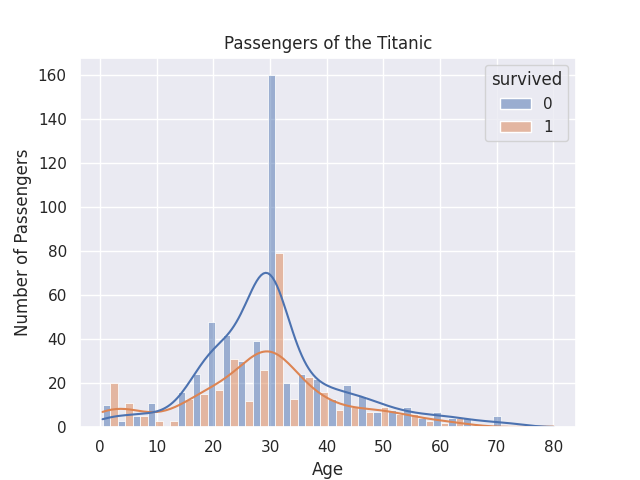
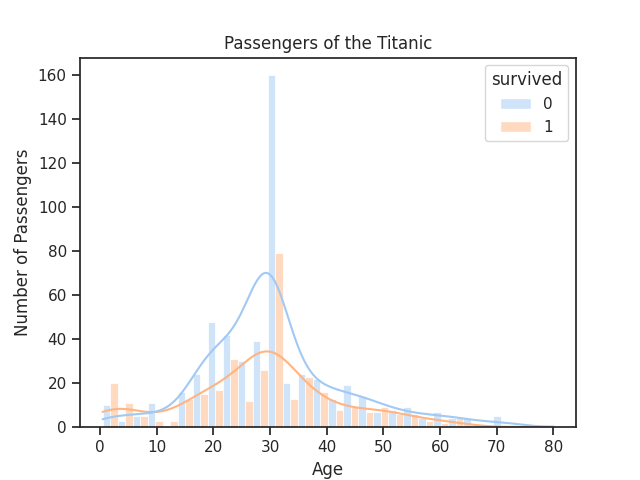
remove grid from the graphs

Changed region(s): [[0.125, 0.1562, 0.9062, 0.9062], [0.125, 0.0938, 0.9062, 0.125], [0.7812, 0.1875, 0.8438, 0.2812]]

diff --git a/atividade_04/src/app/boxplot.py b/atividade_04/src/app/boxplot.py
@@ -17,7 +17,7 @@ import polars as pl
 
 def main():
     df = pl.scan_parquet("src/train.parquet")
-    sns.set_theme()
+    sns.set_theme(style="ticks", palette="pastel")
 
     titanic_passengers = df.select(
         pl.col("age").fill_null(pl.col("age").mean()),

diff --git a/atividade_04/src/app/kde.py b/atividade_04/src/app/kde.py
@@ -17,7 +17,7 @@ import polars as pl
 
 def main():
     df = pl.scan_parquet("src/train.parquet")
-    sns.set_theme()
+    sns.set_theme(style="ticks", palette="pastel")
 
     titanic_passengers = df.select(
         pl.col("age").fill_null(pl.col("age").mean()),
